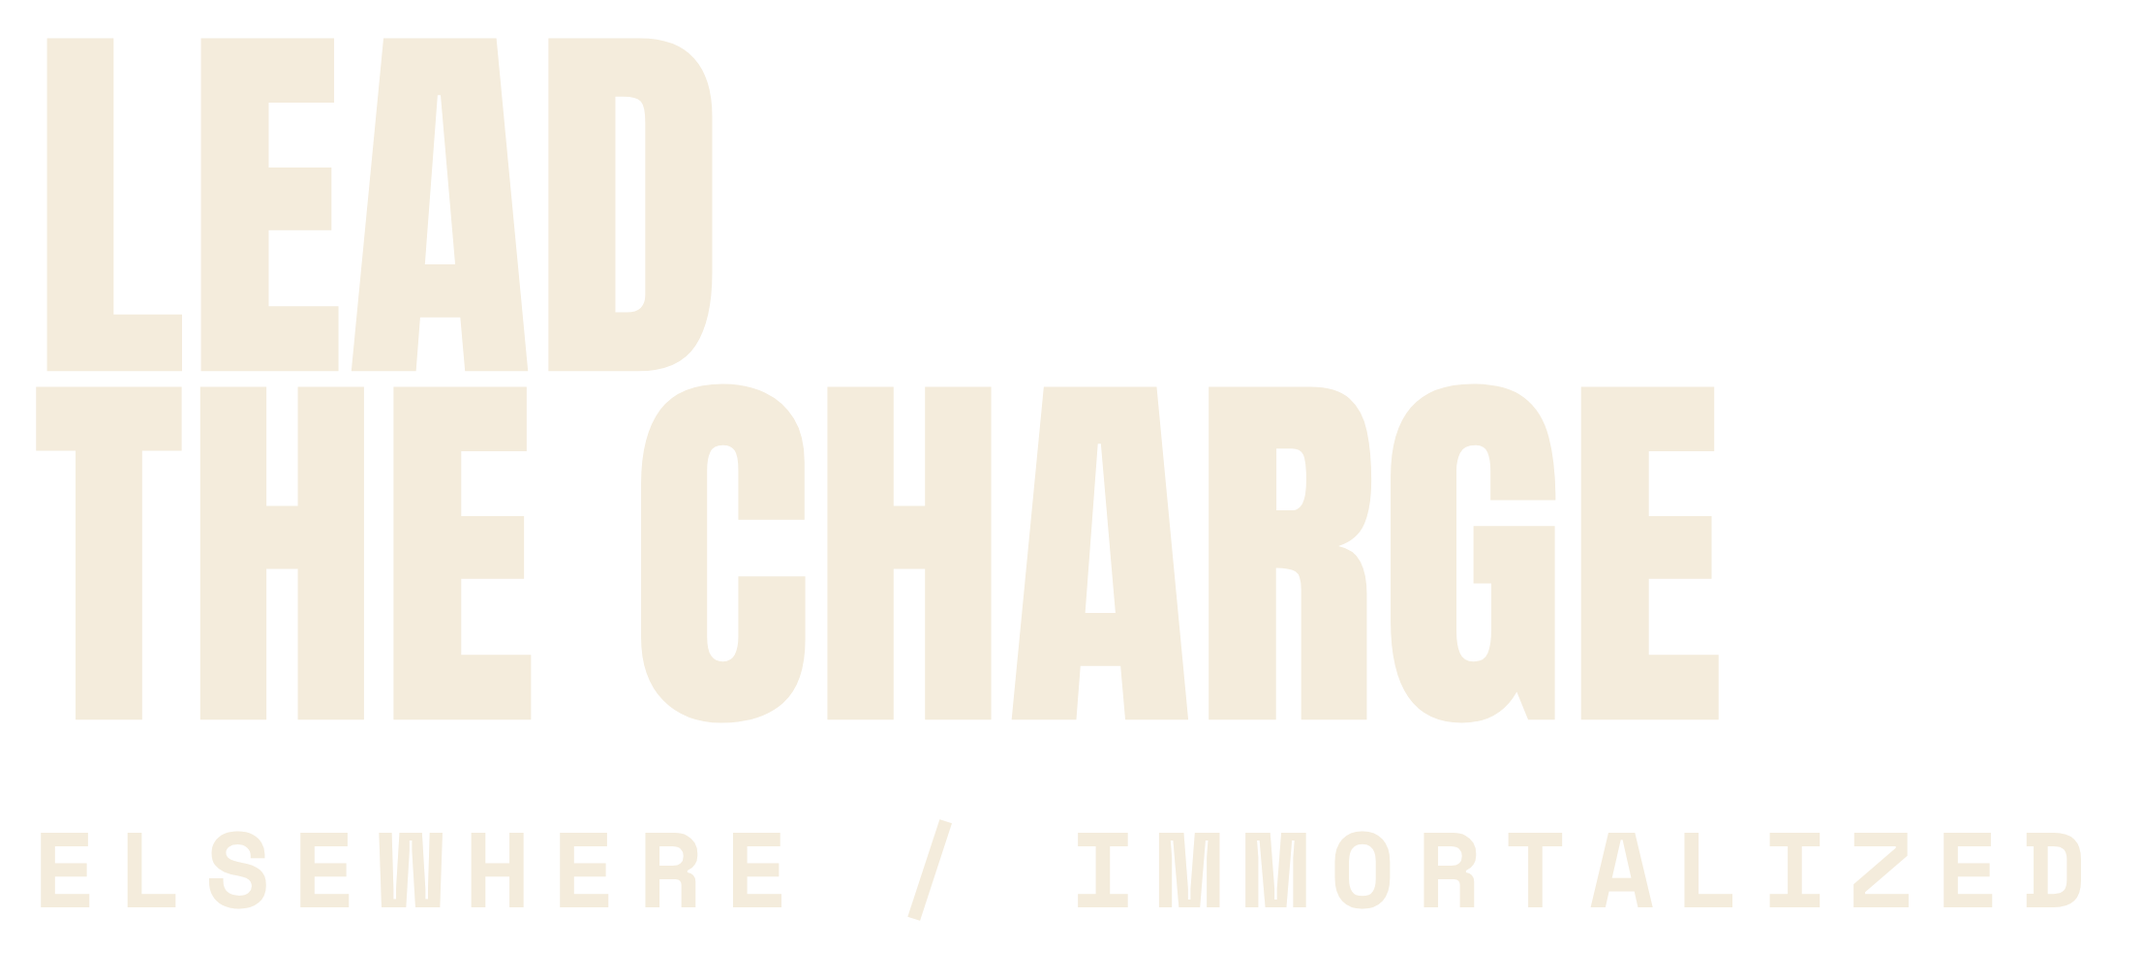
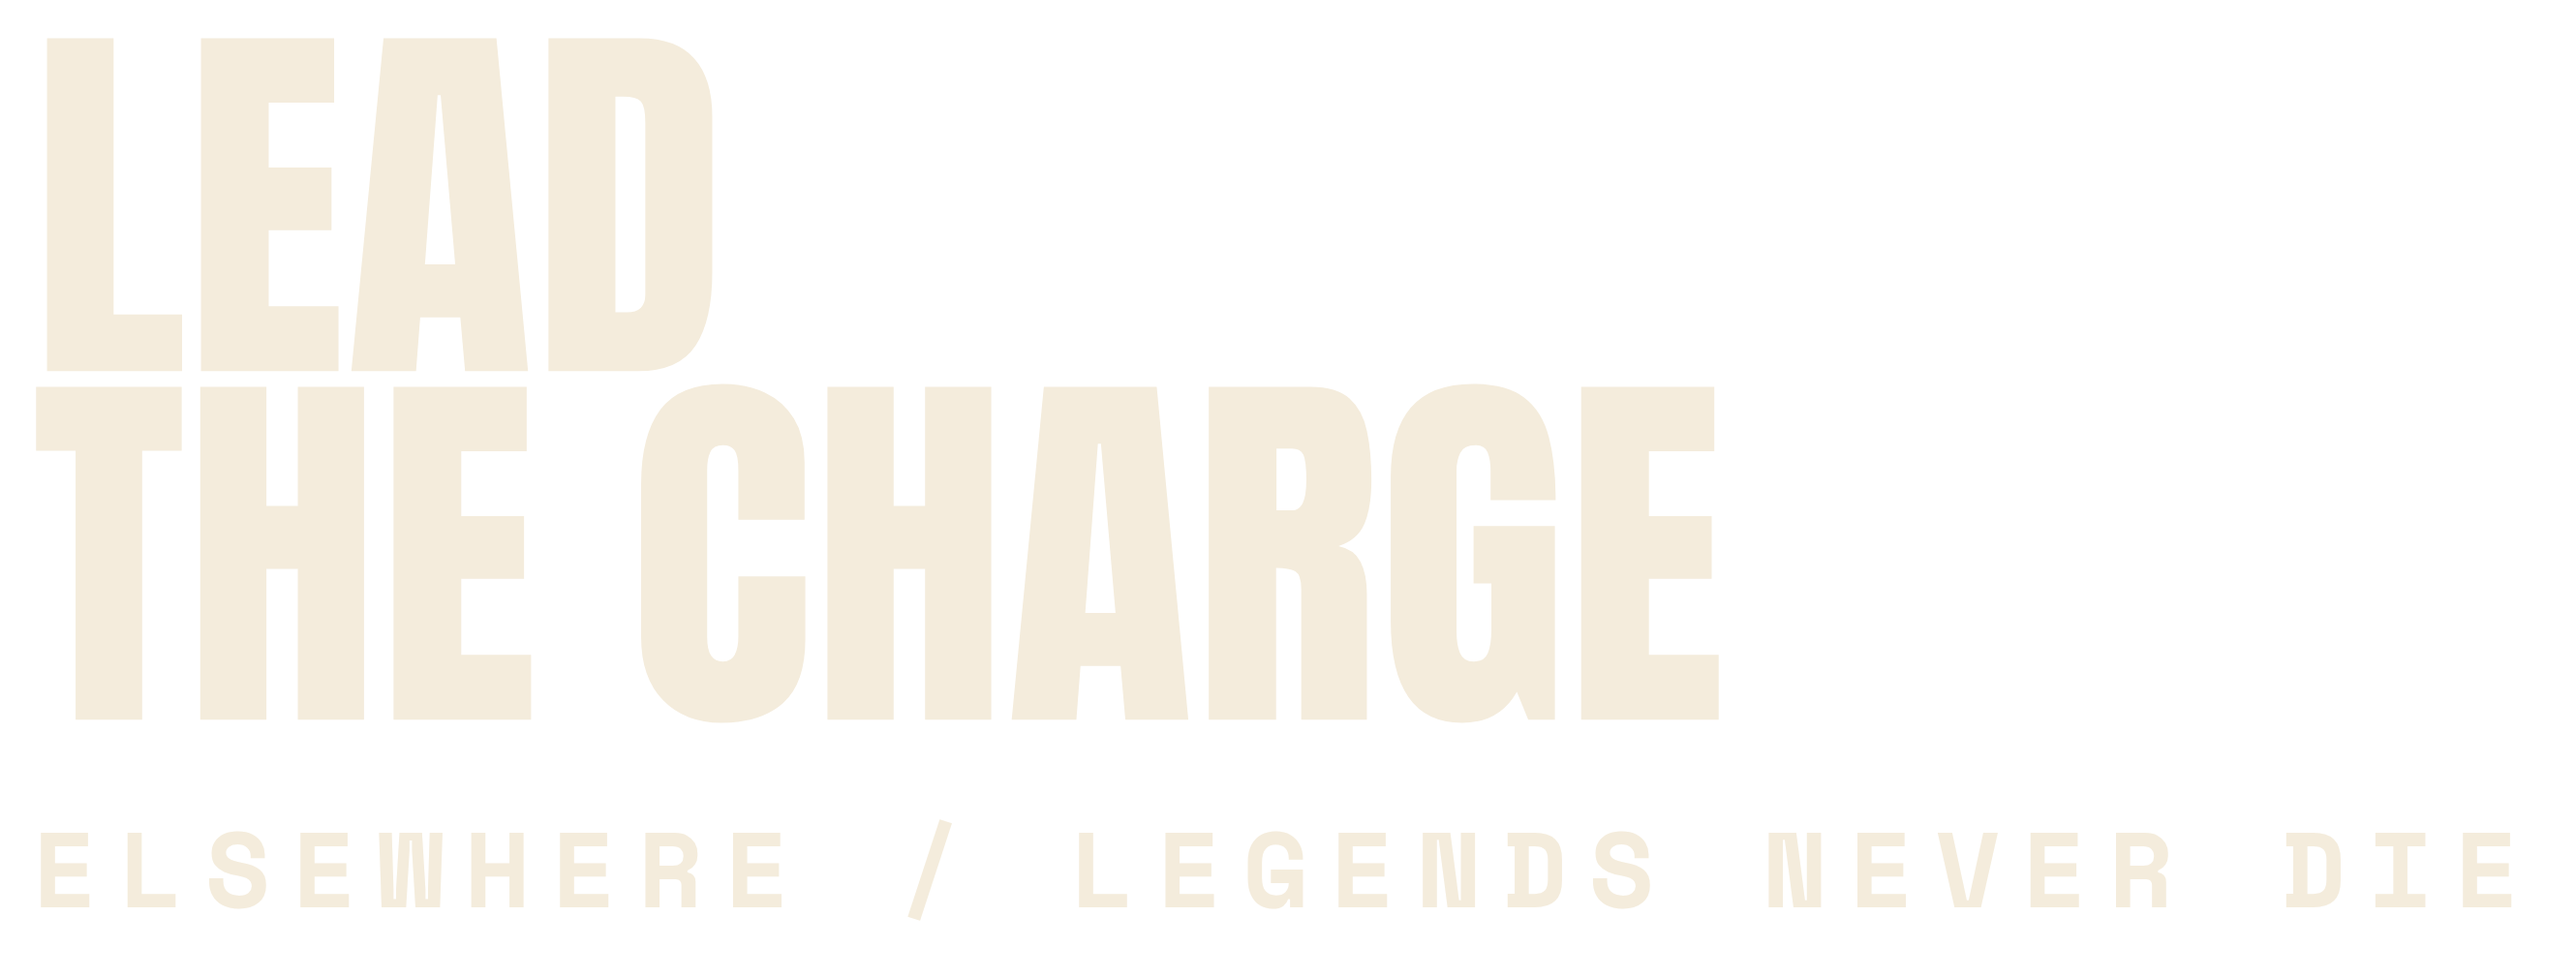
Legends Never Die art: caption and chest mark say LEGENDS NEVER DIE instead of IMMORTALIZED
Claude-Session: https://claude.ai/code/session_01T2BjBwV7d2vTxpMeBzrFvG

Changed region(s): [[0.0, 0.0307, 0.8107, 0.7366], [0.4053, 0.8287, 0.9977, 0.9515], [0.0, 0.8287, 0.3742, 0.9515]]

diff --git a/designs/src/render_drop4.js b/designs/src/render_drop4.js
@@ -1,4 +1,4 @@
-// The Immortalized Collection print files: each painting, unframed, with its title underneath (back),
+// The Legends Never Die collection (formerly Immortalized) print files: each painting, unframed, with its title underneath (back),
 // and a small chest mark (front). White type, for dark garments.
 // Usage: node designs/src/render_drop4.js [slug ...]   (no slugs = render all)
 
@@ -44,12 +44,13 @@ function back(name, title, line) {
       white-space:nowrap;margin-top:22px;text-align:center}
     .row{margin-top:16px;padding-top:18px;border-top:4px solid #f4ecdc;text-align:center;white-space:nowrap}
     /* Sized to stay legible on the garment and in product photos (about 2x the original 22-24px). */
-    .row .label{font:700 44px 'Space Mono';letter-spacing:.16em;margin-right:-.16em;color:#fff}
+    /* 42px/.12em keeps the longer collection name inside the painting's width. */
+    .row .label{font:700 42px 'Space Mono';letter-spacing:.12em;margin-right:-.12em;color:#fff}
     .line{font:700 36px 'Space Mono';margin-top:10px;color:#f4ecdc}
   </style></head><body><div id="art">
     <div class="frame"><img src="${img}"></div>
     <div class="title">${title}</div>
-    <div class="row"><div class="label">Elsewhere Apparel Co. · Immortalized</div><div class="line">${line}</div></div>
+    <div class="row"><div class="label">Elsewhere Apparel Co. · Legends Never Die</div><div class="line">${line}</div></div>
   </div></body></html>`;
 }
 
@@ -59,7 +60,7 @@ function front(lines) {
     .t{font-family:'Anton';font-size:120px;line-height:.9;text-transform:uppercase;white-space:nowrap}
     .label{font-size:33px;letter-spacing:.2em;margin-top:18px}
   </style></head><body><div id="art"><div class="t">${lines.join('<br>')}</div>
-    <div class="label">Elsewhere / Immortalized</div></div></body></html>`;
+    <div class="label">Elsewhere / Legends Never Die</div></div></body></html>`;
 }
 
 (async () => {
